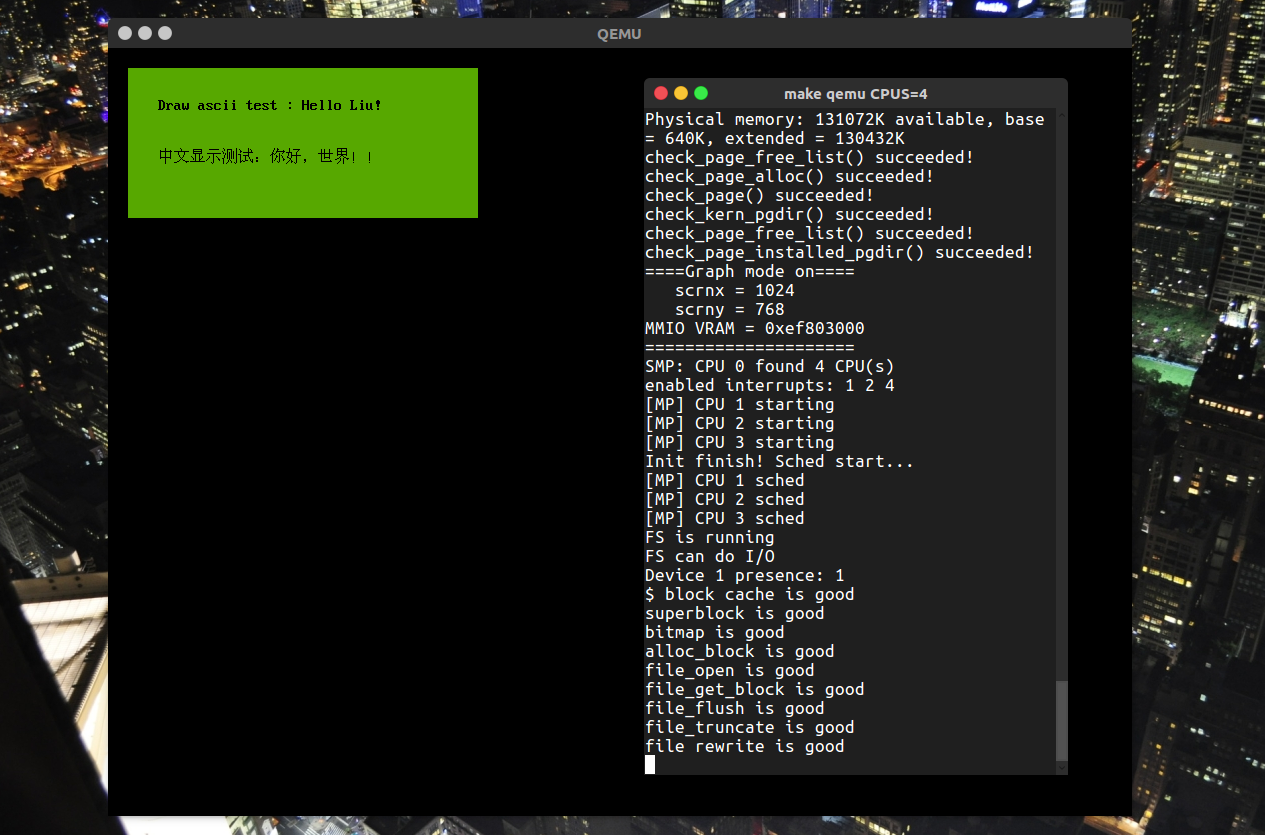
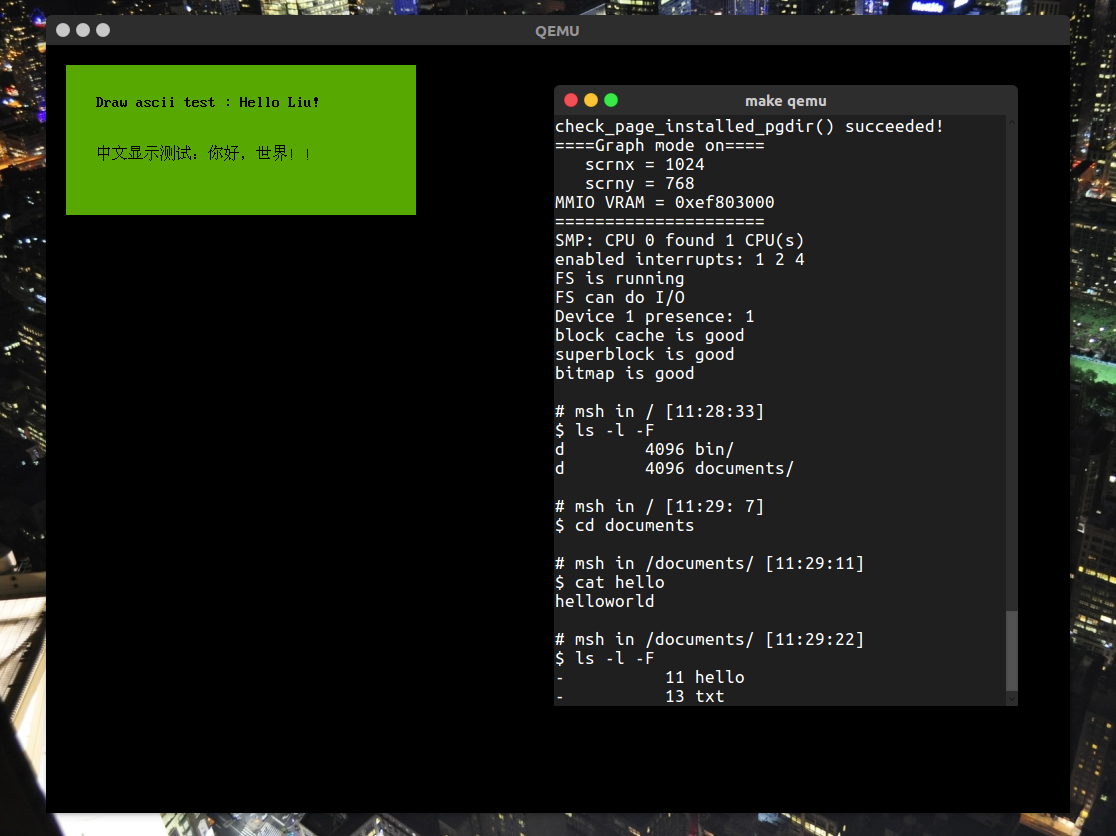
Read time from RTC

Changed region(s): [[0.0, 0.0, 1.0, 1.0]]

diff --git a/user/sh.c b/user/sh.c
@@ -165,7 +165,9 @@ runit:
 
     // Spawn the command!
     if ((r = spawn(argv[0], (const char **)argv)) < 0)
+    {
         cprintf("spawn %s: %e\n", argv[0], r);
+    }
 
     // In the parent, close all file descriptors and wait for the
     // spawned command to exit.
@@ -284,7 +286,6 @@ void umain(int argc, char **argv)
     int r, interactive, echocmds;
     struct Argstate args;
     char *buf;
-    char prompt[BUFSIZ];
 
     echocmds = 0;
     argstart(&argc, argv, &args);
@@ -325,15 +326,15 @@ void umain(int argc, char **argv)
 
     while (1)
     {
-        getcwd(prompt, BUFSIZ);
-        snprintf(prompt, BUFSIZ, "%s\n$ ", prompt);
-        buf = readline(prompt);
+        buf = readline("$ ");
         if (buf == NULL)
         {
             if (debug)
                 cprintf("EXITING\n");
             exit(); // end of file
         }
+        if (strcmp(buf, "exit") == 0)
+            exit();
         if (debug)
             cprintf("LINE: %s\n", buf);
         if (buf[0] == '#')

diff --git a/kern/syscall.c b/kern/syscall.c
@@ -11,6 +11,7 @@
 #include <kern/syscall.h>
 #include <kern/console.h>
 #include <kern/sched.h>
+#include <kern/time.h>
 
 // Print a string to the system console.
 // The string is exactly 'len' characters long.
@@ -408,6 +409,14 @@ sys_env_set_workpath(envid_t envid, const char *path)
 	return 0;
 }
 
+// get time from RTC
+static int
+sys_gettime(struct tm *tm)
+{
+	gettime(tm);
+	return 0;
+}
+
 // Dispatches to the correct kernel function, passing the arguments.
 int32_t
 syscall(uint32_t syscallno, uint32_t a1, uint32_t a2, uint32_t a3, uint32_t a4, uint32_t a5)
@@ -452,6 +461,8 @@ syscall(uint32_t syscallno, uint32_t a1, uint32_t a2, uint32_t a3, uint32_t a4, 
 									 (struct Trapframe *)a2);
 	case SYS_env_set_workpath:
 		return sys_env_set_workpath((envid_t)a1, (const char *)a2);
+	case SYS_gettime:
+		return sys_gettime((struct tm*)a1);
 	case NSYSCALLS:
 	default:
 		return -E_INVAL;

diff --git a/user/msh.c b/user/msh.c
@@ -13,7 +13,8 @@ void umain(int argc, char **argv)
 {
     int r, interactive, echocmds;
     struct Argstate args;
-    char prompt[BUFSIZ];
+    struct tm time;
+    char path[MAXPATH];
     char *buf;
 
     echocmds = 0;
@@ -56,9 +57,11 @@ void umain(int argc, char **argv)
     while (1)
     {
         printf("\n");
-        getcwd(prompt, BUFSIZ);
-        snprintf(prompt, BUFSIZ, "%s\n$ ", prompt);
-        buf = readline(prompt);
+        sys_gettime(&time);
+        getcwd(path, MAXPATH);
+        printf("# msh in %s ",path);
+        printf("[%2d:%2d:%2d]\n",time.tm_hour, time.tm_min, time.tm_sec);
+        buf = readline("$ ");
         if (buf == NULL)
             exit();
         if (buf[0] == '#')

diff --git a/kern/time.c b/kern/time.c
@@ -1,0 +1,17 @@
+#include <inc/types.h>
+#include <kern/time.h>
+#include <kern/kclock.h>
+
+int gettime(struct tm *tm)
+{
+    unsigned datas, datam, datah;
+    int i;
+    tm->tm_sec = BCD_TO_BIN(mc146818_read(0));
+    tm->tm_min = BCD_TO_BIN(mc146818_read(2));
+    tm->tm_hour = BCD_TO_BIN(mc146818_read(4)) + TIMEZONE;
+    tm->tm_wday = BCD_TO_BIN(mc146818_read(6));
+    tm->tm_mday = BCD_TO_BIN(mc146818_read(7));
+    tm->tm_mon = BCD_TO_BIN(mc146818_read(8));
+    tm->tm_year = BCD_TO_BIN(mc146818_read(9));
+    return 0;
+}

diff --git a/inc/lib.h b/inc/lib.h
@@ -21,6 +21,7 @@
 #include <inc/fd.h>
 #include <inc/args.h>
 #include <inc/spinlock.h>
+#include <inc/time.h>
 
 #define USED(x) (void)(x)
 
@@ -59,6 +60,7 @@ int sys_page_unmap(envid_t env, void *pg);
 int sys_ipc_try_send(envid_t to_env, uint32_t value, void *pg, int perm);
 int sys_ipc_recv(void *rcv_pg);
 int sys_env_set_workpath(envid_t envid, const char *path);
+int sys_gettime(struct tm *tm);
 
 // This must be inlined.  Exercise for reader: why?
 static inline envid_t __attribute__((always_inline))

diff --git a/kern/time.h b/kern/time.h
@@ -1,0 +1,17 @@
+#include <inc/types.h>
+
+#define BCD_TO_BIN(val) ((((val) >> 4) * 10) + ((val)&15))
+#define TIMEZONE 8
+
+struct tm
+{
+    int tm_sec;   /* seconds */
+    int tm_min;   /* minutes */
+    int tm_hour;  /* hours */
+    int tm_mday;  /* day of the month */
+    int tm_mon;   /* month */
+    int tm_year;  /* year */
+    int tm_wday;  /* day of the week */
+};
+
+int gettime(struct tm *);

diff --git a/inc/time.h b/inc/time.h
@@ -1,0 +1,12 @@
+#include <inc/types.h>
+
+struct tm
+{
+    int tm_sec;   /* seconds */
+    int tm_min;   /* minutes */
+    int tm_hour;  /* hours */
+    int tm_mday;  /* day of the month */
+    int tm_mon;   /* month */
+    int tm_year;  /* year */
+    int tm_wday;  /* day of the week */
+};

diff --git a/lib/syscall.c b/lib/syscall.c
@@ -109,3 +109,8 @@ int sys_env_set_workpath(envid_t envid, const char *path)
 {
 	return syscall(SYS_env_set_workpath, 0, (uint32_t)envid, (uint32_t)path, 0, 0, 0);
 }
+
+int sys_gettime(struct tm *tm)
+{
+	return syscall(SYS_gettime, 0, (uint32_t)tm, 0, 0, 0, 0);
+}

diff --git a/user/hello.c b/user/hello.c
@@ -4,6 +4,9 @@
 void
 umain(int argc, char **argv)
 {
+	struct tm time;
+	sys_gettime(&time);
 	cprintf("hello, world\n");
 	cprintf("i am environment %08x\n", thisenv->env_id);
+	cprintf("%#2d:%#2d:%#2d\n",time.tm_hour,time.tm_min,time.tm_sec);
 }

diff --git a/inc/syscall.h b/inc/syscall.h
@@ -19,6 +19,7 @@ enum {
 	SYS_ipc_recv,
 	SYS_getcwd,
 	SYS_env_set_workpath,
+	SYS_gettime,
 	NSYSCALLS
 };
 

diff --git a/lab_record/workpath&user_app.md b/lab_record/workpath&user_app.md
@@ -586,4 +586,85 @@ alloc(uint32_t bytes)
 
 
 
-![](./msh.png)
+
+## 获取时间
+
+又新增一个`syscall`，这里不再累述，利用`mc146818_read`获取`cmos`时间即可。
+
+```c
+int gettime(struct tm *tm)
+{
+    unsigned datas, datam, datah;
+    int i;
+    tm->tm_sec = BCD_TO_BIN(mc146818_read(0));
+    tm->tm_min = BCD_TO_BIN(mc146818_read(2));
+    tm->tm_hour = BCD_TO_BIN(mc146818_read(4)) + TIMEZONE;
+    tm->tm_wday = BCD_TO_BIN(mc146818_read(6));
+    tm->tm_mday = BCD_TO_BIN(mc146818_read(7));
+    tm->tm_mon = BCD_TO_BIN(mc146818_read(8));
+    tm->tm_year = BCD_TO_BIN(mc146818_read(9));
+    return 0;
+}
+```
+
+
+
+## 实机运行输出
+
+```shell
+check_page_free_list() succeeded!
+check_page_alloc() succeeded!
+check_page() succeeded!
+check_kern_pgdir() succeeded!
+check_page_free_list() succeeded!
+check_page_installed_pgdir() succeeded!
+====Graph mode on====
+   scrnx = 1024
+   scrny = 768
+MMIO VRAM = 0xef803000
+=====================
+SMP: CPU 0 found 1 CPU(s)
+enabled interrupts: 1 2 4
+FS is running
+FS can do I/O
+Device 1 presence: 1
+block cache is good
+superblock is good
+bitmap is good
+
+# msh in / [12: 4:28]
+$ cd documents
+
+# msh in /documents/ [12: 4:35]
+$ echo hello liu > hello
+
+# msh in /documents/ [12: 4:45]
+$ cat hello
+hello liu
+
+# msh in /documents/ [12: 4:49]
+$ cd /bin
+
+# msh in /bin/ [12: 4:54]
+$ ls -l -F
+-          37 newmotd
+-          92 motd
+-         447 lorem
+-         132 script
+-        2916 testshell.key
+-         113 testshell.sh
+-       20308 cat
+-       20076 echo
+-       20508 ls
+-       20332 lsfd
+-       25060 sh
+-       20076 hello
+-       20276 pwd
+-       20276 mkdir
+-       20280 touch
+-       29208 msh
+
+# msh in /bin/ [12: 4:57]
+$ 
+```
+

diff --git a/lab_record/lab5.md b/lab_record/lab5.md
@@ -762,7 +762,7 @@ The shell doesn't support I/O redirection. It would be nice to run sh <script in
 - 再上面就是文件系统服务器，通过调用`file_read`实现功能了。
 - 客户端通过对需求打包，发送`IPC`给文件系统服务器，即可实现读／写文件的功能。
 
-## 文件系统 Overview
+## 文件系统&文件描述符 Overview
 
 JOS文件系统是直接映射到内存空间`DISKMAP`到`DISKMAP + DISKSIZE`这块空间。故其支持的文件系统最大为3GB.
 
